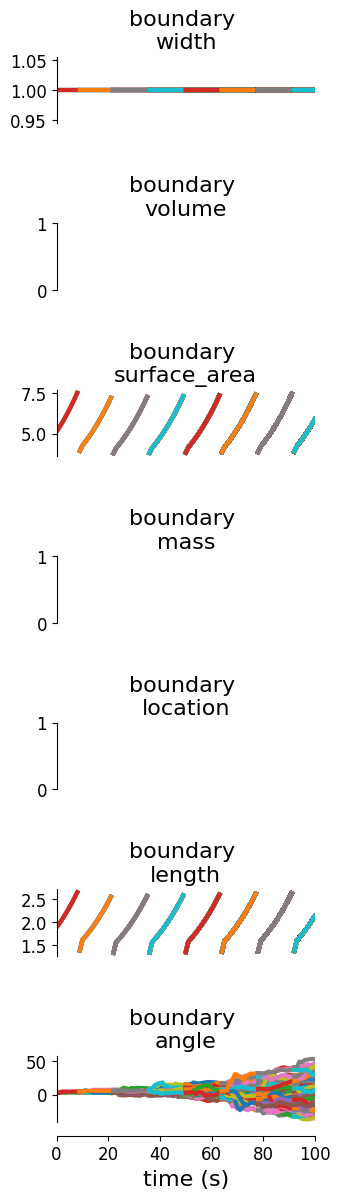
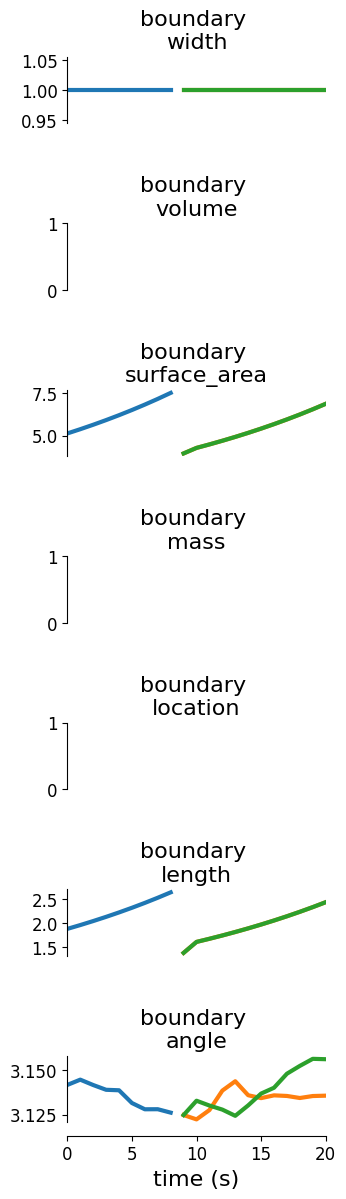
added a pymunk joints and springs script to explore pygame pinjoint pivotjoint damped spring

diff --git a/vivarium_multibody/experiments/pymunk_joints_and_springs.py b/vivarium_multibody/experiments/pymunk_joints_and_springs.py
@@ -1,0 +1,138 @@
+#Create a toy model using the pymunk pivot joint and damped spring
+from typing import Optional, Tuple
+
+import pymunk
+
+from networkx.drawing import circular_layout
+from pymunk import Space, pygame_util, Body, Circle, Vec2d, Segment
+import sys
+import pygame
+import pymunk.pygame_util
+import pymunk.constraints as constraints
+
+def main(surface_anchor_world=None):
+
+
+    #Initialize the Pygame Module and screen (where we draw the simulation result)
+    pygame.init()
+    screen = pygame.display.set_mode((600, 600))
+    print_options = pygame_util.DrawOptions(screen)
+    print_options.flags |= pymunk.SpaceDebugDrawOptions.DRAW_CONSTRAINTS
+
+    #Space Object - global variable and assign it a gravity vector
+    space = Space()
+    space.gravity = 0, 981 #confirm units
+
+    #Segment - Fixed ground for our object
+    surface = pymunk.Segment(space.static_body, (0, 500), (600, 500), 100)
+    surface.elasticity = 0.0
+    surface.friction = 1.0
+    top_y = surface.a.y - surface.radius
+
+
+    #Dynamic body with mass, moment and position
+    mass = 100
+    a_local = (100, 0) #200 unit rod
+    b_local = (-100, 0)
+    radius = 20
+    moment = pymunk.moment_for_segment(mass, a_local, b_local, radius)
+    cell = Body(mass, moment)
+    #Place rod so it just touches the surface
+    cell.position = (200, 100-radius)
+
+    #Create Circle shape and attach it to the body
+    cell_shape = Segment(cell, a_local, b_local, radius)
+    #cell_shape.sensor = True
+    cell_shape.elasticity = 0.0
+    cell_shape.friction = 0.8
+
+    #Create tiny circle, pilus tip shape
+    tip_mass = 5
+    tip_radius = 10.0
+    tip_moment = pymunk.moment_for_circle(tip_mass, 0, tip_radius)
+    tip = pymunk.Body(tip_mass, tip_moment)
+    attach_x = -80
+    attach_y = cell_shape.radius
+    rest_len = 30
+
+    tip.position = cell.local_to_world((attach_x, attach_y + rest_len))
+    tip_shape = Circle(tip, radius=tip_radius)
+    tip_shape.elasticity = 0.0
+    tip_shape.friction = 1.0
+
+    #Connect pilus tip to the cell (PinJoint which is cell <--> pilus tip)
+    #Internal tether that makes the pilus tip stay attached to the bottom of the cell
+    #Fixes the distance between cell and tip, tip moves with the cell but can rotate or swing a little
+    #OFF CENTER PinJoint allowed torque, so the rod rotated on impact
+        #PinJoint only fixes the distance between the anchors but not their angle so the cell collapses because
+        # the anchor was not at the center of mass (uncomment this to see the effects of PinJoint)
+    cell_to_tip = pymunk.constraints.PinJoint(cell, tip, (attach_x, attach_y),(0,0))
+    cell_to_tip.collide_bodies = False
+    space.add(cell_to_tip)
+    attached = False
+
+
+    #Create a body for curli attachment - not added yet --> don't really need this
+    curli_mass = 5
+    curli_radius = 10.0
+    curli_moment = pymunk.moment_for_circle(curli_mass, 0, curli_radius)
+    curli = pymunk.Body(curli_mass, curli_moment)
+    curli.position = ((cell.position.x + 5.0), (cell.position.y + 5.0))
+    curli_shape = Circle(curli, radius=curli_radius)
+    curli_shape.elasticity = 0.5
+    curli_shape.friction = 0.5
+    #space.add(curli, curli_shape)
+
+    #want to make the pivot but keep it off until its on contact with surface
+    anchor = (tip.position.x, top_y)
+    tip_surface = pymunk.constraints.PivotJoint(tip, space.static_body, (0,0),tip.position)
+    tip_surface.collide_bodies = False
+    tip_surface.max_force = 0
+    tip_surface.max_torque = 0
+    tip_surface.max_bias = 0
+    space.add(tip_surface)
+
+    #Create a Damped Spring (Curli)
+    rod_anchor_local = (100, radius)
+    rod_end_surface = cell.local_to_world(rod_anchor_local) #accounts for the rods position + location not just coordinates
+    surface_anchor_world = (rod_end_surface.x, top_y)
+    #need to add/figure out rest and rest length
+
+    spring = pymunk.DampedSpring(cell, space.static_body, rod_anchor_local, surface_anchor_world, rest_length=1,
+                                 stiffness=0.01, damping=0.1)
+    space.add(spring)
+
+
+    attached = False
+
+    #Add body, circle, and surface to the space
+    space.add(cell, cell_shape, surface, tip, tip_shape)
+
+    clock = pygame.time.Clock()
+    while True:
+        for event in pygame.event.get():
+            if event.type == pygame.QUIT:
+                pygame.quit(); sys.exit()
+            elif event.type == pygame.KEYDOWN and event.key == pygame.K_ESCAPE:
+                sys.exit()
+
+        # keep the static anchor until attachment is triggered
+        if not attached:
+            tip_surface.anchor_b = (tip.position.x, tip.position.y)
+
+        # when the tip approaches the surface, bind it there
+        if (not attached) and (tip.position.y >= top_y - tip_radius):
+            tip_surface.anchor_b = (tip.position.x, top_y)  # snap static anchor to surface line
+            tip_surface.max_force = float('inf')  #rigid weld at the pivot - no limit essentially
+            tip_surface.max_bias = float('inf')
+            attached = True
+
+        screen.fill((255, 255, 255))
+        space.step(0.001)
+        clock.tick(60)
+        space.debug_draw(print_options)
+        pygame.display.flip()
+
+
+if __name__ == '__main__':
+        sys.exit(main())

diff --git a/vivarium_multibody/experiments/pymunk_exploration.py b/vivarium_multibody/experiments/pymunk_exploration.py
@@ -2,40 +2,39 @@
     #So far... box (cell) that goes to surface (cell surface)
     #TODO: pygame spings and cell forces (biologically relevant)
 
+#TODO 10/01/2025: Change box to circle, add pivot joint, add damped spring
 
 import pymunk
-from pymunk import Space, pygame_util, Poly, Body, moment_for_box
+from pymunk import Space, pygame_util, Poly, Body, moment_for_box, Circle
 import sys
 import pygame
 
 def main():
+
+    #Initialize the Pygame Module and screen (where we draw the simulation result)
     pygame.init()
     screen = pygame.display.set_mode((800, 600))
-
-    space = Space()
-    space.gravity = 0, 981
-    #gravitational force (check units)
-    #need to but these specifications into a for loop so we hava many being generated
-
-
-    body = Body()
-    body.position = 300, 300
-    size = (50,50)
-    poly = Poly.create_box(body, size=size)
-    body.mass = 10
-    body.moment = moment_for_box(body.mass,size)
-    space.add(body, poly)
     print_options = pygame_util.DrawOptions(screen)
 
-    #floor segment (static)
-    floor = pymunk.Segment(space.static_body, (0, 500), (800, 500), 10)
-    floor.elasticity = 0.8
-    floor.friction = 0.9
-    space.add(floor)
+    #Space Object - global variable and assign it a gravity vector
+    space = Space()
+    space.gravity = 0, 981 #confirm units
 
-    terrain_surface = pygame.Surface((600,600))
-    terrain_surface.fill((pygame.color.THECOLORS["blue"]))
-    #shape = pygame.draw.circle(terrain_surface, (255,255,255), (450,120), 100)
+    #Segment - Fixed ground for our object
+    surface = pymunk.Segment(space.static_body, (0, 500), (800, 500), 10)
+    surface.elasticity = 1.0
+    surface.friction = 1.0
+
+    #Dynamic body with mass, moment and position
+    body = Body(mass=10, moment=10)
+    body.position = 100, 100
+
+    #Create Circle shape and attach it to the body
+    circle = Circle(body, radius=20.0)
+    circle.elasticity = 5
+
+    #Add body, circle, and surface to the space
+    space.add(body, circle, surface)
 
 
     while True:

diff --git a/vivarium_multibody/experiments/pymunk_biofilm.py b/vivarium_multibody/experiments/pymunk_biofilm.py
@@ -39,14 +39,14 @@ def cellbody_config(config):
                 'length': length,  # agent length
                 'width': width,
                 'mass': 1339 * units.fg,
-                'thrust':1.0,
+                'thrust':0,
                 'torque':0
             }
         }
     return init_agents
 
 
-def env_configs(n_agents=4, bounds=None):
+def env_configs(n_agents=1, bounds=None):
     if bounds is None:
         bounds = [20, 20]
     n_bins = [60,60]
@@ -76,6 +76,7 @@ def env_configs(n_agents=4, bounds=None):
         'mother_machine': False,
         'time_step': timestep,
         'animate': False,
+        'physics_dt': timestep,
     }
 
 
@@ -108,7 +109,7 @@ def env_configs(n_agents=4, bounds=None):
     }
 
 
-def run_biofilm_sim(time=100, out_dir='out'):
+def run_biofilm_sim(time=20, out_dir='out'):
     config = env_configs()
     agent_ids = config['agent_ids']
 
@@ -164,7 +165,8 @@ def run_biofilm_sim(time=100, out_dir='out'):
 
     times = sorted(fields.keys())
     num_frames = len(times)
-    vid_steps = max(1, num_frames // 120)
+    #vid_steps = max(1, num_frames // 120)
+    vid_steps = num_frames
 
     make_video(
         data,
@@ -184,4 +186,4 @@ if __name__ == '__main__':
     if not os.path.exists(out_dir):
         os.makedirs(out_dir)
 
-    run_biofilm_sim(100, out_dir)
+    run_biofilm_sim(20, out_dir)
